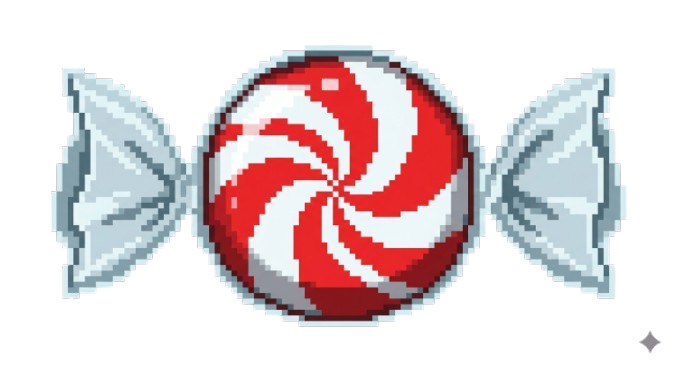
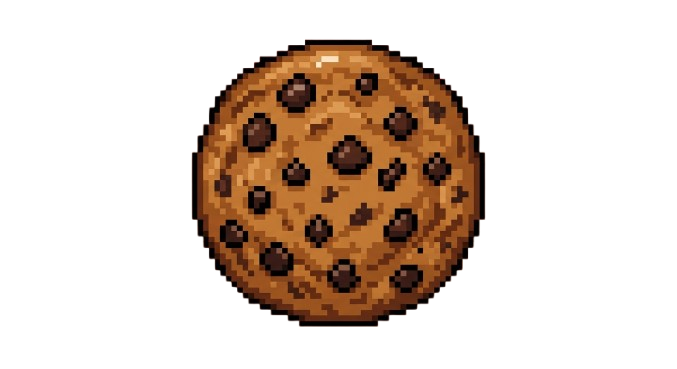
Perfeccionamos el nivel 1

diff --git a/ProyectoFinal/iaobstaculos.cpp b/ProyectoFinal/iaobstaculos.cpp
@@ -1,6 +1,7 @@
 #include "iaobstaculos.h"
 #include "obstaculo.h"
 #include "jugador.h"
+#include <QTimer>
 #include <QFont>
 #include <QDebug>
 #include <algorithm>
@@ -36,7 +37,7 @@ IAObstaculos::IAObstaculos(QGraphicsScene *scene, Jugador *jugador, QObject *par
             pesosCombinacion[t * 10 + m] = 1.0;
 
     // Conectar señales del jugador al HUD
-    connect(jugador, &Jugador::vidasCambiaron,    this, [this](int v){
+    connect(jugador, &Jugador::vidasCambiaron, this, [this](int v){
         if (textoVidas) textoVidas->setPlainText(QString("♥ x%1").arg(v));
     });
     connect(jugador, &Jugador::puntajeActualizado, this, [this](int p){
@@ -119,7 +120,9 @@ void IAObstaculos::iniciar(int segundosParaGanar)
 
 void IAObstaculos::limpiarHUD()
 {
-    auto borrar = [&](auto *&ptr){ if (ptr) { scene->removeItem(ptr); delete ptr; ptr = nullptr; } };
+    auto borrar = [&](auto *&ptr){
+        if (ptr) { scene->removeItem(ptr); delete ptr; ptr = nullptr; }
+    };
     borrar(textoTiempo);
     borrar(fondoTiempo);
     borrar(textoVidas);
@@ -196,12 +199,10 @@ void IAObstaculos::decidirObstaculo()
     if (terminado) return;
 
     // ── a) PERCEPCIÓN ──────────────────────────────────
-    // Observar estado actual del jugador y del juego
     bool jugadorEnPeligro = (jugador->getVidas() == 1);
     bool tiempoEscaso     = (segundosRestantes < 15);
 
     // ── b) RAZONAMIENTO ────────────────────────────────
-    // ¿Debe ser coleccionable? (más frecuentes al inicio y si el jugador tiene pocas vidas)
     bool esColeccionable = debeSerColeccionable();
 
     // Elegir combinación (tipo + física) usando pesos aprendidos
@@ -220,8 +221,53 @@ void IAObstaculos::decidirObstaculo()
 
     qreal altura = decidirAltura(modelo);
 
+    // La parabólica ya no nace siempre al extremo derecho:
+    // aparece un poco más cerca del jugador y con variación horizontal,
+    // para que sí tenga interacción real y margen de esquiva.
+    qreal xInicial = 820;
+    if (modelo == FIS_PARABOLICA) {
+        xInicial = 200+ QRandomGenerator::global()->bounded(550); // 620..759
+    } else if (modelo == FIS_OSCILATORIA) {
+        xInicial = 780 + QRandomGenerator::global()->bounded(50);  // 780..829
+    }
+
     // ── c) ACCIÓN ──────────────────────────────────────
-    generarObstaculo(tipo, modelo, 820, altura, esColeccionable);
+
+    if (modelo == FIS_PARABOLICA)
+    {
+        QGraphicsTextItem *aviso = new QGraphicsTextItem("⚠");
+
+        aviso->setDefaultTextColor(Qt::red);
+        aviso->setFont(QFont("Arial", 28, QFont::Bold));
+        aviso->setZValue(50);
+
+        aviso->setPos(xInicial, altura);
+
+        scene->addItem(aviso);
+
+        QTimer::singleShot(700, this, [=]()
+                           {
+                               if (scene)
+                               {
+                                   scene->removeItem(aviso);
+                                   delete aviso;
+                               }
+
+                               generarObstaculo(tipo,
+                                                modelo,
+                                                xInicial,
+                                                altura,
+                                                esColeccionable);
+                           });
+    }
+    else
+    {
+        generarObstaculo(tipo,
+                         modelo,
+                         xInicial,
+                         altura,
+                         esColeccionable);
+    }
 
     obstaculosEnVistaReciente++;
     if (obstaculosEnVistaReciente > 10) {
@@ -309,19 +355,28 @@ void IAObstaculos::generarObstaculo(TipoObst tipo, ModeloFis modelo,
 {
     Obstaculo *o = new Obstaculo();
     o->esColeccionable = esColeccionable;
-    o->velocidadX      = 3.0 + nivelDificultad * 0.8;
+
+    // La velocidad general sigue escalando con dificultad,
+    // pero la parabólica va un poco más lenta para que sea esquivable.
+    if (modelo == FIS_PARABOLICA) {
+        o->velocidadX = 2.1 + nivelDificultad * 0.35;
+    } else {
+        o->velocidadX = 3.0 + nivelDificultad * 0.8;
+    }
 
     // Asignar modelo físico
     switch (modelo) {
     case FIS_LINEAL:
         o->modeloFisico = Obstaculo::FISICA_LINEAL;
         break;
+
     case FIS_PARABOLICA:
         o->modeloFisico = Obstaculo::FISICA_PARABOLICA;
-        // Lanzamiento desde arriba con Vy inicial pequeña
-        o->velocidadY = QRandomGenerator::global()->bounded(10) * 0.3;
-        o->gravedad   = 0.3 + nivelDificultad * 0.05;
+        // Lanzamiento más suave: empieza con caída lenta y gravedad menor
+        o->velocidadY = 0.0;
+        o->gravedad   = 0.08;
         break;
+
     case FIS_OSCILATORIA:
         o->modeloFisico = Obstaculo::FISICA_OSCILATORIA;
         o->yBase       = y;
@@ -342,8 +397,8 @@ void IAObstaculos::generarObstaculo(TipoObst tipo, ModeloFis modelo,
     } else {
         o->tipo = Obstaculo::GALLETA;
         o->cargarSprite(":/Imagenes/Galleta.png",
-                        50 + nivelDificultad * 5,
-                        50 + nivelDificultad * 5);
+                        70 + nivelDificultad * 5,
+                        70 + nivelDificultad * 5);
     }
 
     // Recordar la combinación para refuerzo posterior
@@ -443,15 +498,15 @@ qreal IAObstaculos::decidirAltura(ModeloFis modelo)
     switch (modelo) {
     case FIS_LINEAL:
         // 70% al ras del suelo, 30% a media altura (hay que saltar)
-        return (QRandomGenerator::global()->bounded(100) < 70) ? 280 : 200;
+        return (QRandomGenerator::global()->bounded(100) < 70) ? 400 : 330;
 
     case FIS_PARABOLICA:
         // El obstáculo empieza arriba y cae: punto de entrada en Y arriba
-        return 80 + QRandomGenerator::global()->bounded(80);
+        return 20 + QRandomGenerator::global()->bounded(80);
 
     case FIS_OSCILATORIA:
         // Centro de la oscilación a media pantalla
-        return 220 + QRandomGenerator::global()->bounded(60);
+        return 320 + QRandomGenerator::global()->bounded(60);
     }
     return 280;
 }

diff --git a/ProyectoFinal/mainwindow.cpp b/ProyectoFinal/mainwindow.cpp
@@ -340,12 +340,27 @@ QWidget* MainWindow::crearPantallaJuego()
 void MainWindow::iniciarNivel(int num)
 {
     nivelActual = num;
-
     player->reiniciar();
     player->cargarSprite(personajeSeleccionado);
-    player->setPos(100, 260);
 
-    QString rutaFondo = ":/Imagenes/FondoN1.png";
+    QString rutaFondo;
+
+    if(nivelActual == 1)
+    {
+        rutaFondo = ":/Imagenes/FondoN1.png";
+
+        player->setSueloY(380);
+        player->setPos(100, 380);
+    }
+    else if(nivelActual == 2)
+    {
+        rutaFondo = ":/Imagenes/FondoN2.png";
+
+        // Posición para vista aérea
+        player->setSueloY(380);
+        player->setPos(360, 380);
+    }
+
     bgPixmap = QPixmap(rutaFondo);
     if (bgPixmap.isNull()) {
         bgPixmap = QPixmap(800, 500);
@@ -396,10 +411,6 @@ void MainWindow::volverAlMenu()
     if (ia) ia->detener();
     stack->setCurrentWidget(menuPrincipal);
 }
-
-// ─────────────────────────────────────────────────────────────
-//  tickJuego()  –  loop principal del juego
-// ─────────────────────────────────────────────────────────────
 void MainWindow::tickJuego()
 {
     if (stack->currentWidget() != pantallaJuego) return;
@@ -417,15 +428,32 @@ void MainWindow::tickJuego()
     }
 
     if (!moviendose) player->detenerHorizontal();
-
-    // Scroll del fondo
-    bgOffset -= VEL_FONDO;
-    if (bgOffset <= -800) bgOffset += 800;
-
     QPixmap canvas(800, 500);
     QPainter painter(&canvas);
-    painter.drawPixmap(bgOffset, 0, bgPixmap);
-    painter.drawPixmap(bgOffset + 800, 0, bgPixmap);
+
+    if(nivelActual == 1)
+    {
+        // Nivel 1: movimiento horizontal
+        bgOffset -= 2;
+
+        if(bgOffset <= -800)
+            bgOffset += 800;
+
+        painter.drawPixmap(bgOffset, 0, bgPixmap);
+        painter.drawPixmap(bgOffset + 800, 0, bgPixmap);
+    }
+    else if(nivelActual == 2)
+    {
+        // Nivel 2: movimiento vertical (vista aérea)
+        bgOffset += 2;
+
+        if(bgOffset >= 500)
+            bgOffset -= 500;
+
+        painter.drawPixmap(0, bgOffset, bgPixmap);
+        painter.drawPixmap(0, bgOffset - 500, bgPixmap);
+    }
+
     painter.end();
     scene->setBackgroundBrush(canvas);
 

diff --git a/ProyectoFinal/jugador.cpp b/ProyectoFinal/jugador.cpp
@@ -128,8 +128,11 @@ void Jugador::saltar()
 
 void Jugador::aplicarFisica()
 {
-    // Bajar contador de invulnerabilidad
-    if (ticksInvulnerable > 0) ticksInvulnerable--;
+    // Bajar contador de invulnerabilidad y actualizar parpadeo a 60 fps
+    if (ticksInvulnerable > 0) {
+        ticksInvulnerable--;
+        aplicarFrameActual();   // refresca la opacidad cada tick, no solo cada 100 ms
+    }
 
     // Gravedad
     velocidadY += gravedad;
